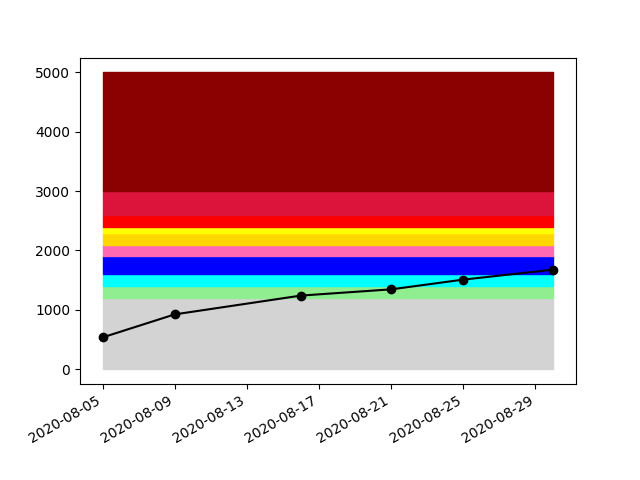
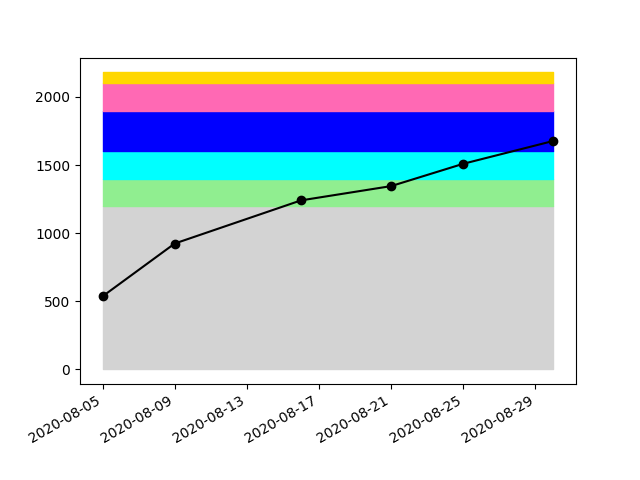
Back to normal range

diff --git a/fmt.py b/fmt.py
@@ -86,7 +86,7 @@ time_data = [datetime.datetime(year=y, month=m, day=d) for (y, m, d) in time_dat
 
 plt.plot(time_data, rating_data, marker="o", color='black')
 plt.gcf().autofmt_xdate()
-max_rating = max(rating_data) * 10
+max_rating = max(rating_data) * 1.3
 
 for i in range(1, len(titles)):
     if titles[i-1][0] < max_rating:
